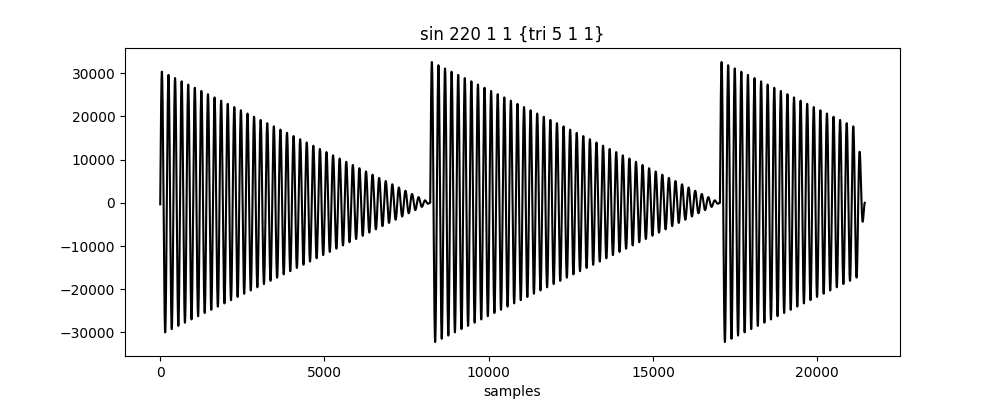
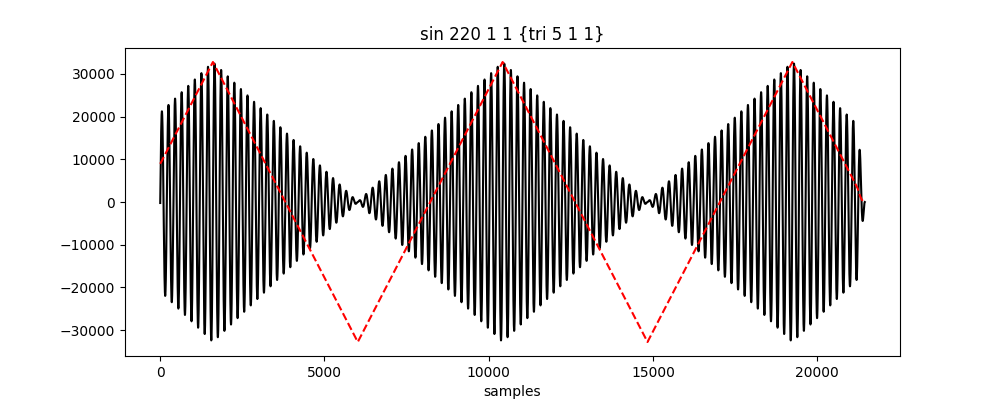
added read/write from files

diff --git a/blow_chunks.c b/blow_chunks.c
@@ -29,6 +29,11 @@ int    main( int argc, char **argv )
     ctrl.seq_duration=default_duration;
     ctrl.total_length=default_duration;
     ctrl.verbose=FALSE;
+    ctrl.input=stdin;
+    ctrl.input_is_file=FALSE;
+    ctrl.output=stdout;
+    ctrl.output_is_file=FALSE;
+
     
     /*parse command line*/
     clparser( argc, argv, &ctrl, &fmt_chunk );
@@ -43,7 +48,7 @@ int    main( int argc, char **argv )
 
     /* Set up the data structures */    
     if ( ( top_node = setup_waveform_data_structures( &nlines, &nwaves, &fmt_chunk, var_node, &ctrl ) ) == NULL ){
-        fprintf(stderr, "%s: no wave data found at stdin\n", argv[ 0 ] );
+        fprintf(stderr, "%s: no wave data found on stdin or in input file\n", argv[ 0 ] );
         exit( EXIT_FAILURE );
     } 
 
@@ -51,8 +56,8 @@ int    main( int argc, char **argv )
     if(ctrl.verbose)print_data(top_node,0);
 
     /* - Check output is being redirected - */
-    if( isatty( fileno( stdout ) ) ){
-        fprintf( stderr, "%s: output must be redirected\nexiting\n", argv[ 0 ] );
+    if( isatty( fileno( ctrl.output ) ) ){
+        fprintf( stderr, "%s: output must be redirected or file specified --- exiting\n", argv[ 0 ] );
         exit( EXIT_FAILURE );                
     }        
             
@@ -67,10 +72,10 @@ int    main( int argc, char **argv )
     setup_chunk_headers( &wav_header, &fmt_header, &data_header, &fmt_chunk, ctrl.total_length );
     
     /* Write .wav file up to start of data */
-    write_wav_header( &wav_header );
-    write_chunk_hdr( &fmt_header );    
-    write_PCM_fmt_chunk( &fmt_chunk );
-    write_chunk_hdr( &data_header );
+    write_wav_header( ctrl.output, &wav_header );
+    write_chunk_hdr( ctrl.output, &fmt_header );    
+    write_PCM_fmt_chunk( ctrl.output, &fmt_chunk );
+    write_chunk_hdr( ctrl.output, &data_header );
     
     num_samples = ctrl.total_length * fmt_chunk.SampleRate ; 
     
@@ -78,9 +83,13 @@ int    main( int argc, char **argv )
     num_samples = ctrl.total_length * fmt_chunk.SampleRate ; 
     while( i < num_samples ){        
         calculate_data_value( top_node, &fmt_chunk, i, nwaves, sample_value );
-        write_pcm_data_sample( &fmt_chunk, sample_value );
+        write_pcm_data_sample( ctrl.output, &fmt_chunk, sample_value );
         ++i;
     }    
+    
+
+    if(ctrl.input_is_file == TRUE)fclose(ctrl.input); 
+    if(ctrl.output_is_file == TRUE)fclose(ctrl.output); 
         
     free(sample_value);    
     return( EXIT_SUCCESS );    
@@ -111,6 +120,16 @@ PCM_fmt_chnk *format;
             else if( !strncasecmp( argv[ i ],"--sample_rate",5 ) || !strcasecmp(argv[ i ],"-s") )                 
                     format->SampleRate = (long)atoi( argv[ ++i ] );                    
 
+            else if( !strncasecmp( argv[ i ],"--output_file",7 ) || !strcasecmp(argv[ i ],"-o") )                 
+            {                          
+                     ctrl->output = fopen(argv[ ++i ],"w");
+                     ctrl->output_is_file = TRUE ;
+            }
+            else if( !strncasecmp( argv[ i ],"--input_file",7 ) || !strcasecmp(argv[ i ],"-i") )                 
+            {                          
+                     ctrl->input = fopen(argv[ ++i ],"r");
+                     ctrl->input_is_file = TRUE ;
+            }
             else if( !strncasecmp( argv[ i ],"--verbose",5 ) || !strcasecmp(argv[ i ],"-v") )                 
                     ctrl->verbose=TRUE;
                                        
@@ -132,6 +151,8 @@ void usage(char *binary_name)
         fprintf(stderr, "--duration|-d arg\t\twhere arg is the duration in seconds [float]\n" );
         fprintf(stderr, "--bits_per_sample|-b arg\twhere arg is the bits per sample of the wav file [int]\n" );
         fprintf(stderr, "--sample_rate|-s arg\t\twhere arg is the sample rate of the wav file in Hertz [int]\n" );
+        fprintf(stderr, "--input_file|-i arg\t\tread the input from the file specified by arg [string]\n" );
+        fprintf(stderr, "--output_file|-o arg\t\twrite to the file specified by arg [string]\n" );
         fprintf(stderr, "--verbose|-v\t\t\tprint additional messages to the stderr\n" );
         fprintf(stderr, "--usage|-u\t\t\tprint the usage message (this one!) to the stderr\n" );
 

diff --git a/libchunky.c b/libchunky.c
@@ -19,23 +19,19 @@
 */
 
 void setup_PCM_fmt_chunk( PCM_fmt_chnk *fmt_chunk )
-{
-        
-	/* - Calculate block align and avg bytes per second - */
-                        
-        fmt_chunk->AvgBytesPerSec=fmt_chunk->Channels\
-                                 *fmt_chunk->SampleRate\
-                                 *(float)fmt_chunk->PCM_bps/8.0;
+{        
+    /* - Calculate block align and avg bytes per second - */                       
+    fmt_chunk->AvgBytesPerSec=fmt_chunk->Channels\
+                             *fmt_chunk->SampleRate\
+                             *(float)fmt_chunk->PCM_bps/8.0;
                                      
-        fmt_chunk->BlockAlign=fmt_chunk->Channels\
+    fmt_chunk->BlockAlign=fmt_chunk->Channels\
                              *(float)fmt_chunk->PCM_bps/8.0;
 
-	fmt_chunk->FormatTag=WAVE_FORMAT_PCM;
+    fmt_chunk->FormatTag=WAVE_FORMAT_PCM;
 
 	return;
-
 }
-
 
 
 void setup_chunk_headers( RIFF_hdr *wav_header, chunk_hdr *fmt_header, chunk_hdr *data_header,\
@@ -61,81 +57,53 @@ void setup_chunk_headers( RIFF_hdr *wav_header, chunk_hdr *fmt_header, chunk_hdr
 			 +data_header->length ;
 			
 	return;
-
-
-
 }
 
-void write_wav_header( RIFF_hdr *wav_header )
+void write_wav_header( FILE *outfp, RIFF_hdr *wav_header )
 {
-
-	fwrite( wav_header, sizeof( RIFF_hdr ), 1, stdout );
+	fwrite( wav_header, sizeof( RIFF_hdr ), 1, outfp );
 	return;
-
 }
 
 
-
-void write_PCM_fmt_chunk( PCM_fmt_chnk *fmt_chunk )
+void write_PCM_fmt_chunk( FILE *outfp, PCM_fmt_chnk *fmt_chunk )
 {
-
-	fwrite( fmt_chunk, sizeof( PCM_fmt_chnk ), 1, stdout );
+	fwrite( fmt_chunk, sizeof( PCM_fmt_chnk ), 1, outfp );
 	return;
-
 }
 
 
-
-void write_chunk_hdr( chunk_hdr *header )
+void write_chunk_hdr( FILE *outfp, chunk_hdr *header )
 {
-
-	fwrite( header, sizeof( chunk_hdr ), 1, stdout );
+	fwrite( header, sizeof( chunk_hdr ), 1, outfp );
 	return;
-
 }
 
 
-
-
-void write_pcm_data_sample( PCM_fmt_chnk *fmt_chunk, float *sample_value )
+void write_pcm_data_sample( FILE *outfp, PCM_fmt_chnk *fmt_chunk, float *sample_value )
 {
-
 	short int 	bps16_value;
 	char	 	bps8_value;
 	long		i ;
 
-	if( fmt_chunk->PCM_bps == 16 ){
-	
+	if( fmt_chunk->PCM_bps == 16 ){	
 		for( i=0; i<fmt_chunk->Channels; i++ ){
-	
 			bps16_value = *(sample_value + i) * 32767;
-			fwrite( &bps16_value , sizeof( short int ), 1, stdout );
-		
+			fwrite( &bps16_value , sizeof( short int ), 1, outfp );
 		}
 	
 	}else if( fmt_chunk->PCM_bps == 8 ){
-	
-		
 		for( i=0; i<fmt_chunk->Channels; i++ ){
-
 			bps8_value = *(sample_value + i) * 127;
-			fwrite( &bps8_value , sizeof( char ), 1, stdout );
-			
+			fwrite( &bps8_value , sizeof( char ), 1, outfp );
 		}
 
-	
-	}else{
-	
-		fprintf( stderr, "Usupported bits per sample: %d\n", fmt_chunk->PCM_bps );
+	}else{	
+		fprintf( stderr, "Unsupported bits per sample: %d\n", fmt_chunk->PCM_bps );
 		exit( EXIT_FAILURE );
-	
 	}
 
-
-
-
 	return;
-
 }
 
 

diff --git a/chunky.h b/chunky.h
@@ -101,7 +101,8 @@ struct	wave_node {
 		float               duration;
 		
 		/*experimental*/
-		float               rnd_mem;
+		double               mem1;
+		double               mem2;
 		};
 		
 /*
@@ -121,15 +122,21 @@ struct 	ampl_node {
 	
 
 /*
-Control structure for passing 
+Control structure
 */
 
 struct control  {
-		float				master_volume ;
-		float				seq_start;
-		float				seq_duration;
-		float               total_length;
-		int                 verbose;
+		float    master_volume ;
+		float    seq_start;
+		float    seq_duration;
+		float    total_length;
+		int      verbose;
+		
+		FILE     *input;
+		char     input_is_file;
+		FILE     *output;
+		char     output_is_file;
+		
 		} ;
 
 
@@ -152,10 +159,12 @@ struct variable_node {
 void setup_PCM_fmt_chunk( PCM_fmt_chnk *fmt_chunk );
 void setup_chunk_headers( RIFF_hdr *wav_header, chunk_hdr *fmt_header, chunk_hdr *data_header,\
 			      PCM_fmt_chnk *fmt_chunk, float duration );
-void write_wav_header( RIFF_hdr *wav_header );
-void write_PCM_fmt_chunk( PCM_fmt_chnk *fmt_chunk );
-void write_chunk_hdr( chunk_hdr *header );
-void write_pcm_data_sample( PCM_fmt_chnk *fmt_chunk, float *sample_value );
+
+void write_wav_header( FILE *, RIFF_hdr *wav_header );
+void write_PCM_fmt_chunk( FILE *, PCM_fmt_chnk *fmt_chunk );
+void write_chunk_hdr( FILE *, chunk_hdr *header );
+void write_pcm_data_sample( FILE *, PCM_fmt_chnk *fmt_chunk, float *sample_value );
+
 
 /*Blow chunks functions*/
 void calculate_data_value( struct wave_node *node, PCM_fmt_chnk *fmt_chunk, 
@@ -196,6 +205,8 @@ float sut_wave( struct wave_node *node, PCM_fmt_chnk *fmt_chunk, long int pos );
 float sdn_wave( struct wave_node *node, PCM_fmt_chnk *fmt_chunk, long int pos );
 float sn3_wave( struct wave_node *node, PCM_fmt_chnk *fmt_chunk, long int pos );
 float sn5_wave( struct wave_node *node, PCM_fmt_chnk *fmt_chunk, long int pos );
+float tri_wave( struct wave_node *node, PCM_fmt_chnk *fmt_chunk, long int pos );
+float trx_wave( struct wave_node *node, PCM_fmt_chnk *fmt_chunk, long int pos );
 float wht_wave( struct wave_node *node, PCM_fmt_chnk *fmt_chunk, long int pos );
 float rsq_wave( struct wave_node *node, PCM_fmt_chnk *fmt_chunk, long int pos );
 

diff --git a/blow_chunks_modulators.c b/blow_chunks_modulators.c
@@ -18,6 +18,10 @@ float(* assign_oscillator_function(char *wfunc))(struct wave_node *node, PCM_fmt
         return &sn3_wave;
     else if( ! strcmp( wfunc, "sn5" ) )
         return &sn5_wave;
+    else if( ! strcmp( wfunc, "tri" ) )
+        return &tri_wave;
+    else if( ! strcmp( wfunc, "trx" ) )
+        return &trx_wave;
     else if( ! strcmp( wfunc, "wht" ) )
         return &wht_wave;
     else if( ! strcmp( wfunc, "rsq" ) )
@@ -64,6 +68,26 @@ float sqx_wave( struct wave_node *node, PCM_fmt_chnk *fmt_chunk, long int pos ){
     sample_value = 2./M_PI*atan(sin( node->f + node->phase*2*M_PI )/delta);
     return( sample_value );
 }
+
+
+/* --- a triangular wave --- */
+float tri_wave( struct wave_node *node, PCM_fmt_chnk *fmt_chunk, long int pos ){
+
+    float    sample_value;
+    sample_value = 2./M_PI*asin(sin( node->f + node->phase*2*M_PI ));
+    return( sample_value );
+}
+
+
+/* --- a smoothed triangular wave --- */
+float trx_wave( struct wave_node *node, PCM_fmt_chnk *fmt_chunk, long int pos ){
+
+    float    sample_value;
+    sample_value = 2./M_PI*asin(sin( node->f + node->phase*2*M_PI )*0.975);
+    return( sample_value );
+}
+
+
 
 /* --- square wave --- */
 float sqr_wave( struct wave_node *node, PCM_fmt_chnk *fmt_chunk, long int pos ){
@@ -132,12 +156,15 @@ float rsq_wave( struct wave_node *node, PCM_fmt_chnk *fmt_chunk, long int pos ){
 
     node->frequency = fmt_chunk->SampleRate * node->f / ( pos * 2 * M_PI );   
     
-    sample_value=node->rnd_mem;
+    sample_value=node->mem1;
     if(r<(node->frequency/fmt_chunk->SampleRate)) sample_value=s;
-    node->rnd_mem = sample_value;
+    node->mem1 = sample_value;
 
     return( sample_value );
 }
+
+
+
 
 
 

diff --git a/blow_chunks_engine.c b/blow_chunks_engine.c
@@ -157,7 +157,7 @@ struct wave_node *setup_waveform_data_structures( long int *nlines, long int *nw
     node = NULL ;        
     top_node = NULL ;        
         
-    while( fgets( line, MAX_LINE_LEN, stdin ) != NULL ){
+    while( fgets( line, MAX_LINE_LEN, ctrl->input ) != NULL ){
     
         (*nlines)++;
 
@@ -823,7 +823,8 @@ struct wave_node *wnalloc( void )
     struct wave_node *node;
 
     node = ( struct wave_node *) malloc( sizeof( struct wave_node ) );
-    node->rnd_mem=0.0;
+    node->mem1=0.0;
+    node->mem2=0.0;
     node->fenv_integral=0.0;
     node->f_mod=NULL;
     node->p_mod=NULL;

diff --git a/helpers/mk_wave_images.py b/helpers/mk_wave_images.py
@@ -43,7 +43,8 @@ def mk_fig(bc_command,bc_command2=None,freq=200,n_show=5):
 if __name__=="__main__":
 
      freq="220"
-     oscils=["sin","sup","sdn", "sn3","sn5","sqr","sqx","sut"]     
+     oscils=["sin","sup","sdn", "sn3","sn5","sqr","sqx","sut","tri"]     
+     oscils=["tri","trx"]     
 
      #basic oscillator plots
      for osc in oscils:

diff --git a/string_utils.c b/string_utils.c
@@ -641,7 +641,9 @@ int assign_variables( char *string,  struct variable_node *var_node )
         string[k++]=tmp[i-1];  
         i++;
     }
-    string[k]='\0';
+
+    fprintf(stderr,"possible problem in variable parsing in %s at line %d\n",__FILE__,__LINE__); 
+    string[k-2]='\0';
     
     /*check if var exists*/
     /*and, if so, replace*/
